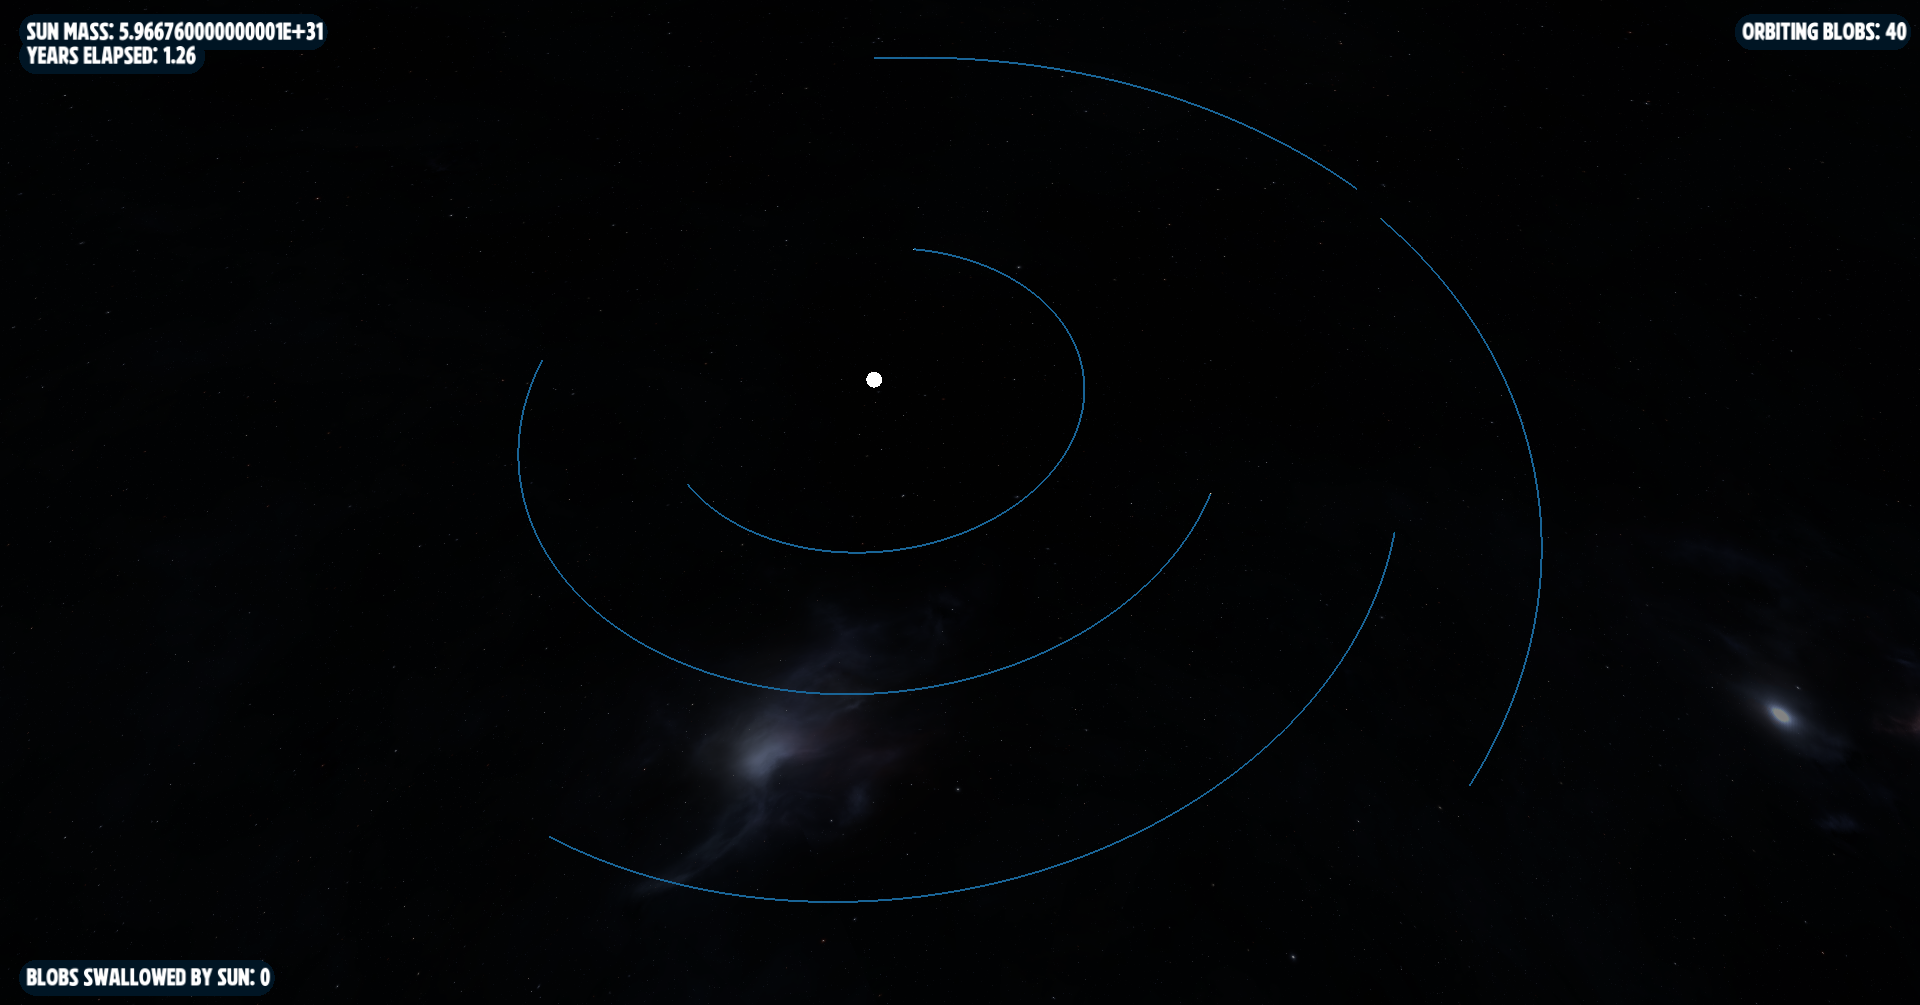
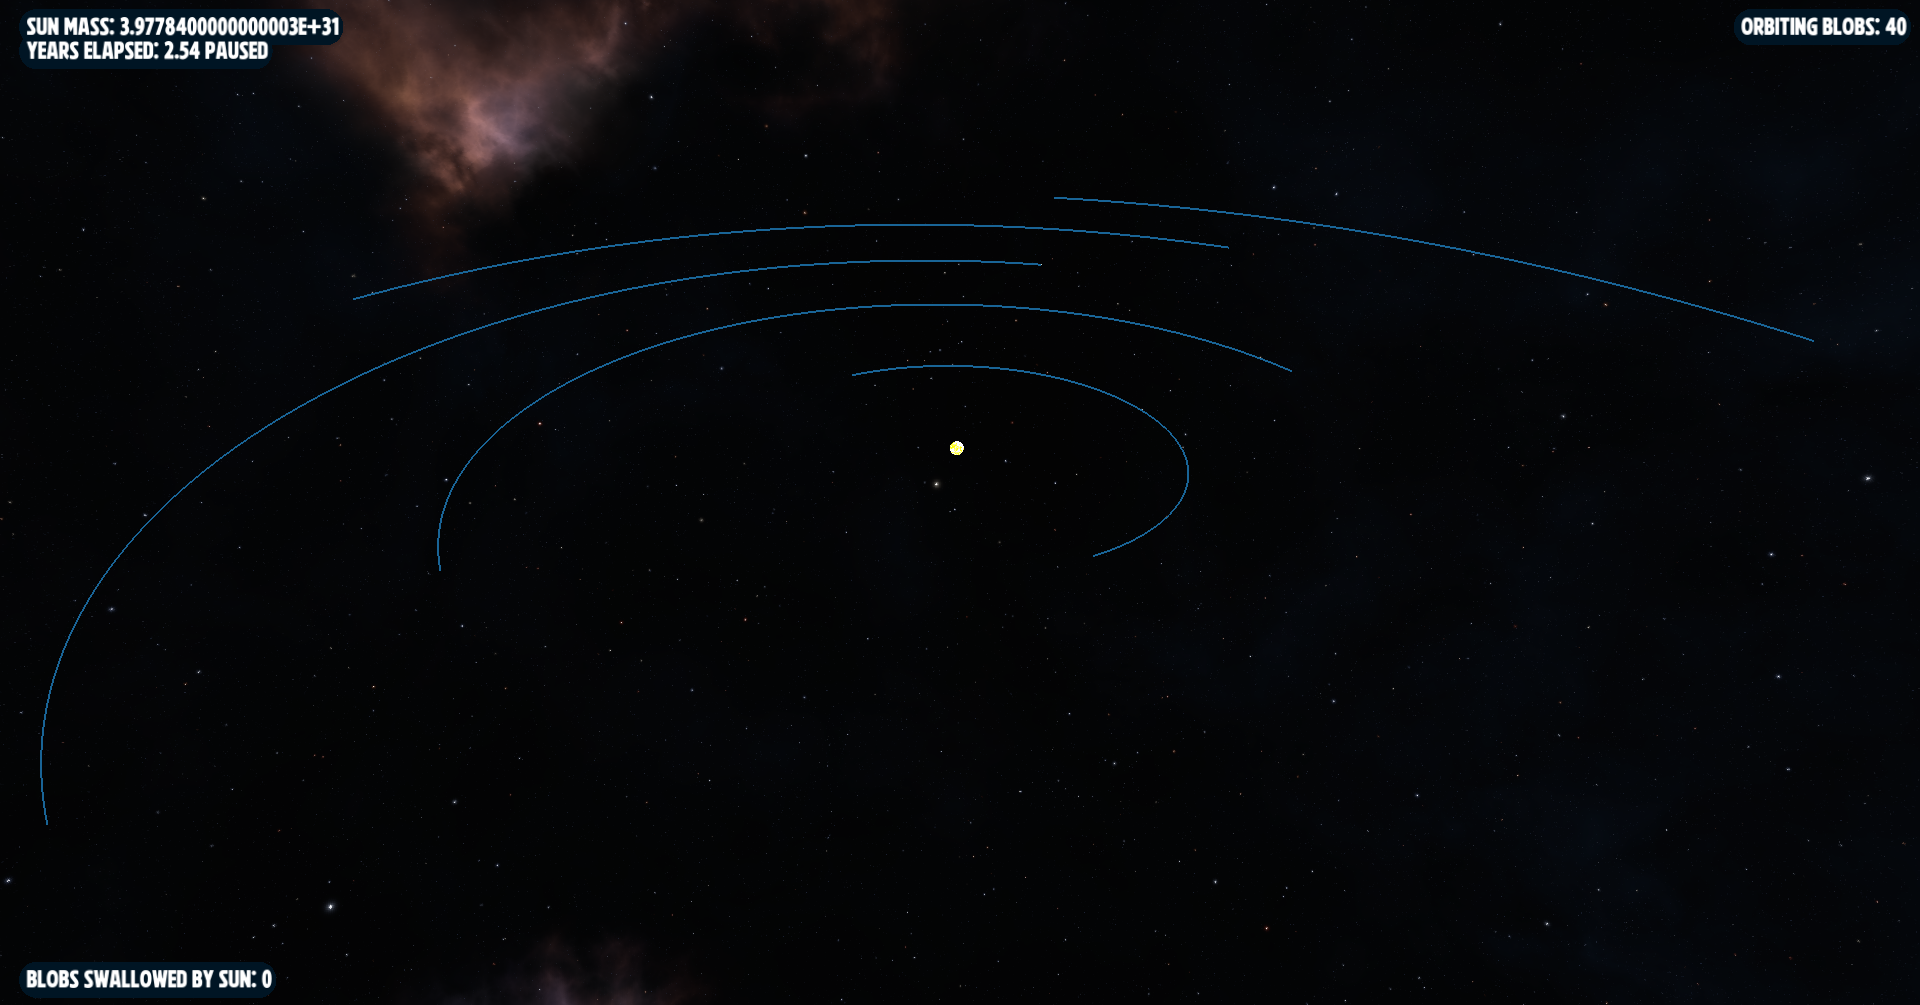
Fixed background corruption bug

diff --git a/nb_ursina/blob_universe_ursina.py b/nb_ursina/blob_universe_ursina.py
@@ -92,7 +92,6 @@ class BlobUniverseUrsina:
             texture=texture,
             texture_scale=(1, 1),
             rotation_x=90,
-            eternal=True,
         )
 
     def get_framework(self: Self) -> Any:
@@ -135,6 +134,9 @@ class BlobUniverseUrsina:
 
     def clear(self: Self) -> None:
         """Used to delete and properly clean up blobs (for a start over, for example)"""
+
+        urs.destroy(self.universe, 0)
+        self.universe = None
         urs.scene.clear()
         self.width, self.height = (
             bg_vars.universe_size_w,
